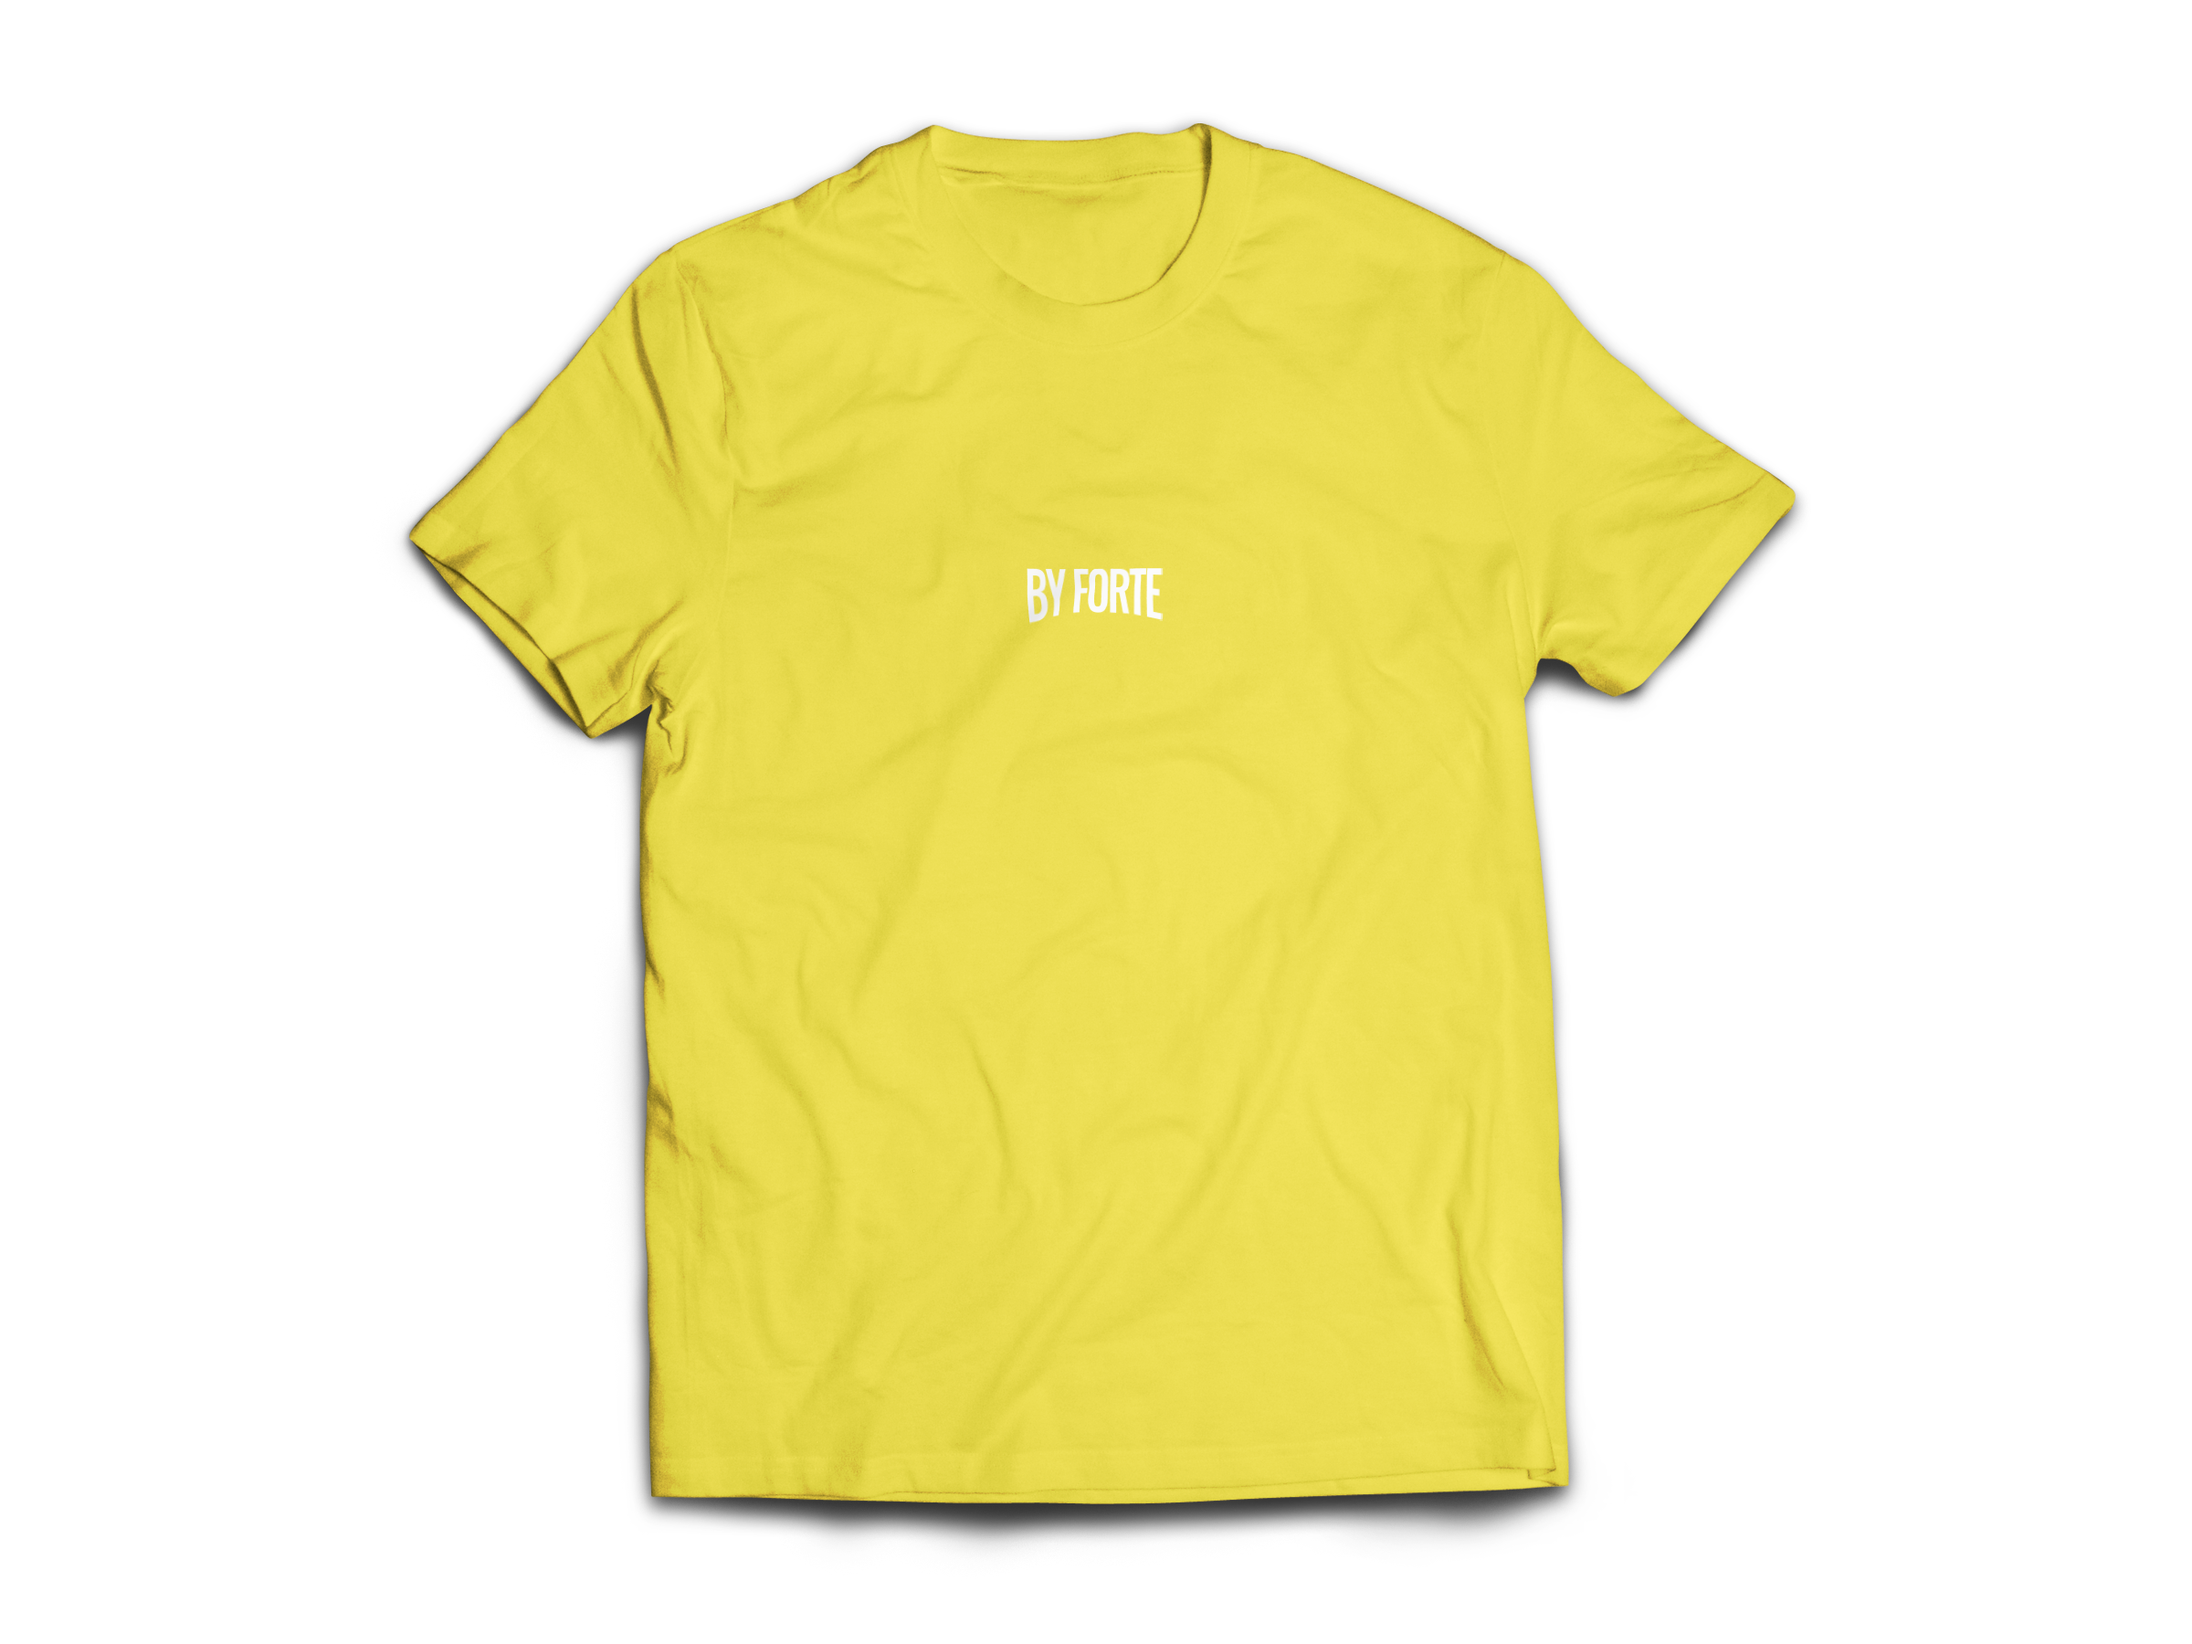
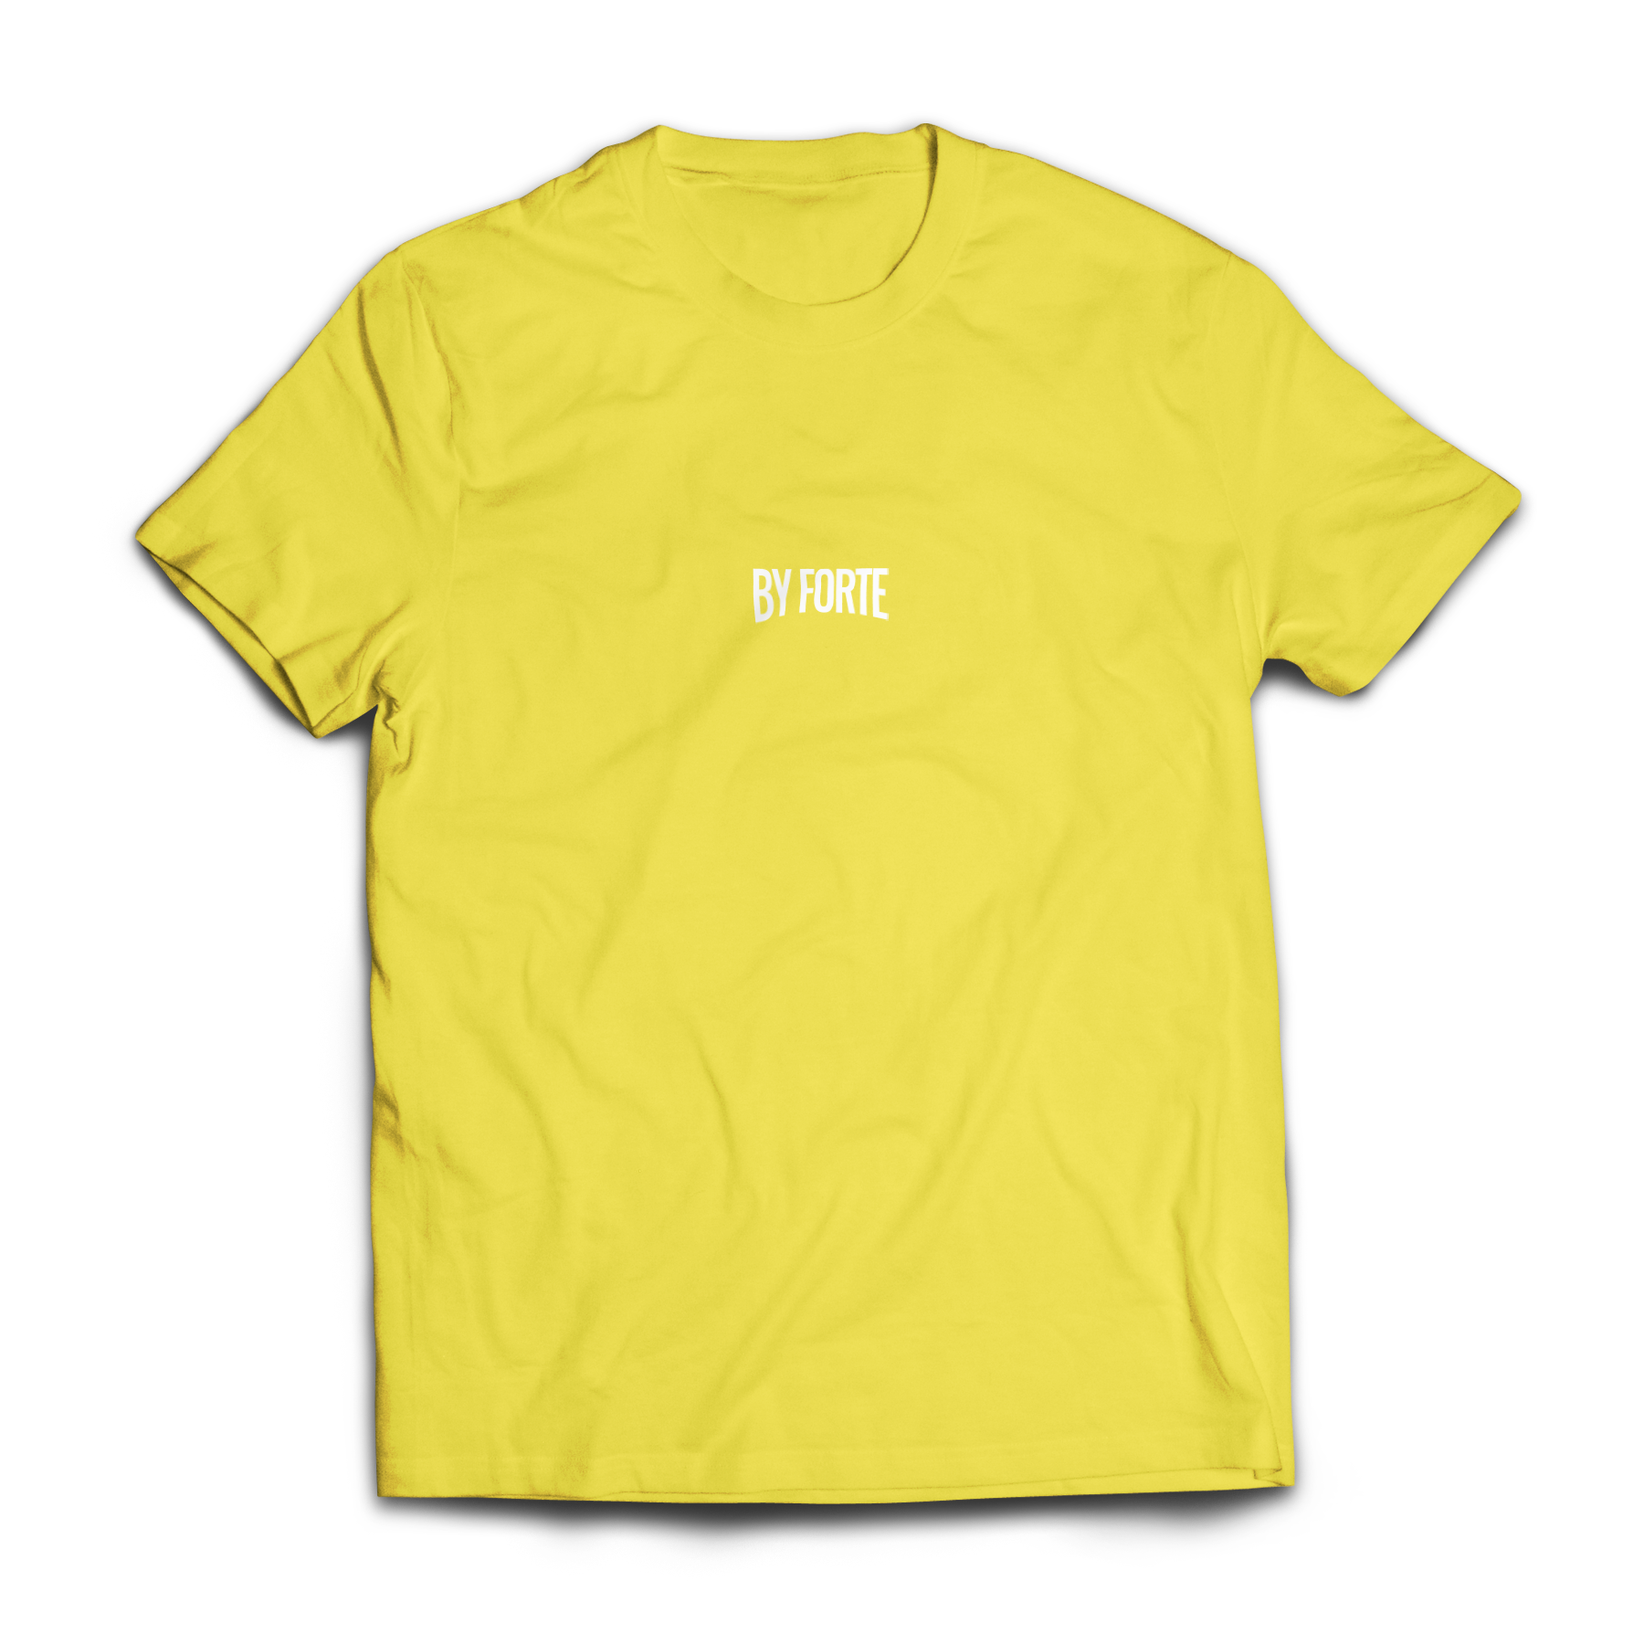
Added product item template

diff --git a/src/scenes/Home/components/PictureRow/index.js b/src/scenes/Home/components/PictureRow/index.js
@@ -1,30 +1,30 @@
-import React, { Component } from "react";
-import placeholderOne from "images/PlaceholderOne.png";
-import placeholderTwo from "images/PlaceholderTwo.png";
-import placeholderThree from "images/PlaceholderThree.jpg";
-import "./styles.css";
+import React, { Component } from 'react';
+import placeholderOne from 'images/PlaceholderOne.png';
+import placeholderTwo from 'images/PlaceholderTwo.png';
+import placeholderThree from 'images/PlaceholderThree.jpg';
+import './styles.css';
 
 export class PictureRow extends Component {
   render() {
     return (
-      <div className="mx-auto">
-        <div className="d-flex flex-column flex-lg-row">
+      <div className='mx-auto'>
+        <div className='d-flex flex-column flex-lg-row'>
           <div
-            className="picture"
+            className='picture'
             style={{
-              backgroundImage: "url(" + placeholderOne + ")"
+              backgroundImage: 'url(' + placeholderOne + ')'
             }}
           />
           <div
-            className="picture"
+            className='picture'
             style={{
-              backgroundImage: "url(" + placeholderTwo + ")"
+              backgroundImage: 'url(' + placeholderTwo + ')'
             }}
           />
           <div
-            className="picture"
+            className='picture'
             style={{
-              backgroundImage: "url(" + placeholderThree + ")"
+              backgroundImage: 'url(' + placeholderThree + ')'
             }}
           />
         </div>

diff --git a/src/registerServiceWorker.js b/src/registerServiceWorker.js
@@ -2,7 +2,7 @@
 
 // This lets the app load faster on subsequent visits in production, and gives
 // it offline capabilities. However, it also means that developers (and users)
-// will only see deployed updates on the "N+1" visit to a page, since previously
+// will only see deployed updates on the 'N+1' visit to a page, since previously
 // cached resources are updated in the background.
 
 // To learn more about the benefits of this model, read https://goo.gl/KwvDNy.
@@ -63,13 +63,13 @@ function registerValidSW(swUrl) {
             if (navigator.serviceWorker.controller) {
               // At this point, the old content will have been purged and
               // the fresh content will have been added to the cache.
-              // It's the perfect time to display a "New content is
-              // available; please refresh." message in your web app.
+              // It's the perfect time to display a 'New content is
+              // available; please refresh.' message in your web app.
               console.log('New content is available; please refresh.');
             } else {
               // At this point, everything has been precached.
               // It's the perfect time to display a
-              // "Content is cached for offline use." message.
+              // 'Content is cached for offline use.' message.
               console.log('Content is cached for offline use.');
             }
           }

diff --git a/src/scenes/Shop/components/Product Shop/index.js b/src/scenes/Shop/components/Product Shop/index.js
@@ -1,0 +1,33 @@
+import React, { Component } from "react";
+import { ProductItem } from "./../Product Item";
+
+import whiteForte from "./../../images/Mock Ups/By Forte - Mock Up (White).png";
+import yellowForte from "./../../images/Mock Ups/By Forte - Mock Up (Yellow).png";
+// import ashMantraFront from './../../images/Mock Ups/Mantra Forte (Front) - Mock Up (Ash).png';
+import ashMantraBack from "./../../images/Mock Ups/Mantra Forte (Back) - Mock Up (Ash).png";
+// import ncBlueMantraFront from './../../images/Mock Ups/Mantra Forte (Front) - Mock Up (NC Blue).png';
+import ncBlueMantraBack from "./../../images/Mock Ups/Mantra Forte (Back) - Mock Up (NC Blue).png";
+import "./styles.css";
+
+export class ProductShop extends Component {
+  render() {
+    return (
+      <div className="w-100">
+        <div className="row justify-content-between text-center">
+          <ProductItem name="BY FORTE TEE" colour="WHITE" image={whiteForte} />
+          <ProductItem name="BY FORTE TEE" colour="YELLOW" image={yellowForte} />
+          <ProductItem
+            name="MANTRA FORTE TEE"
+            colour="NORTH CAROLINA BLUE"
+            image={ncBlueMantraBack}
+          />
+          <ProductItem
+            name="MANTRA FORTE TEE"
+            colour="GREY"
+            image={ashMantraBack}
+          />
+        </div>
+      </div>
+    );
+  }
+}

diff --git a/src/components/Navbar/index.js b/src/components/Navbar/index.js
@@ -42,20 +42,20 @@ export class NavBar extends React.Component {
     const navLinks = pages.map(page => {
       return (
         <NavItem key={page}>
-          <NavLink onClick={this.handleClick} to={'/' + page} activeClassName="text-dark" className="NavLink text-uppercase text-muted mx-auto" tag={RRNavLink}>{page}</NavLink>
+          <NavLink onClick={this.handleClick} to={'/' + page} activeClassName='text-dark' className='NavLink text-uppercase text-muted mx-auto' tag={RRNavLink}>{page}</NavLink>
         </NavItem>
     )
     });
 
     return (
-      <div className="container">
-        <Navbar className="navbar" light={true} expand="md">
-          <NavbarBrand to="/" className="navbar-brand mr-auto" tag={RRNavLink}>
-            <img id="logo" src={logo} alt="By Forte"/>
+      <div className='container'>
+        <Navbar className='navbar' light={true} expand='md'>
+          <NavbarBrand to='/' className='navbar-brand mr-auto' tag={RRNavLink}>
+            <img id='logo' src={logo} alt='By Forte'/>
           </NavbarBrand>
           <NavbarToggler onClick={this.handleClick}/>
           <Collapse isOpen={this.state.isOpen} navbar={true}>
-            <Nav className="ml-auto" navbar={true}>
+            <Nav className='ml-auto' navbar={true}>
               {navLinks}
             </Nav>
           </Collapse>

diff --git a/src/scenes/Shop/components/Product Item/index.js b/src/scenes/Shop/components/Product Item/index.js
@@ -1,0 +1,54 @@
+import React, { Component } from "react";
+import { Link } from "react-router-dom";
+import PropTypes from "prop-types";
+
+export class ProductItem extends Component {
+  constructor(props) {
+    super(props);
+
+    this.url = `${this.props.name}-${this.props.colour}`
+      .split(" ")
+      .join("-")
+      .toLowerCase();
+
+    this.state = {
+      name: this.props.name,
+      colour: this.props.colour,
+      image: this.props.image,
+      url: this.url
+    };
+  }
+
+  render() {
+    return (
+      <div className="col-6 col-lg-3">
+        <Link
+          to={{
+            pathname: `/shop/collections/tops/products/${this.url}`,
+            state: {
+              name: this.state.name,
+              colour: this.state.colour,
+              image: this.state.image
+            }
+          }}
+        >
+          <img
+            className="display-image mx-auto d-block"
+            src={this.state.image}
+            alt={`${this.state.name} - ${this.state.colour}`}
+          />
+        </Link>
+        <p>
+          {this.state.name} <br />
+          <span className="text-muted">{this.state.colour}</span>
+        </p>
+      </div>
+    );
+  }
+}
+
+ProductItem.propTypes = {
+  name: PropTypes.string.isRequired,
+  image: PropTypes.string,
+  colour: PropTypes.string
+};

diff --git a/src/scenes/Shop/index.js b/src/scenes/Shop/index.js
@@ -1,13 +1,14 @@
-import React, { Component } from "react";
-import { ShirtShop } from "./components/Shirt Shop/shirtShop";
-import { PasswordInput } from "./components/passwordInput";
-import "./styles.css";
+import React, { Component } from 'react';
+import { ProductShop } from './components/Product Shop';
+import { PasswordInput } from './components/passwordInput';
+
+import './styles.css';
 
 export class Shop extends Component {
   constructor(props) {
     super(props);
     this.state = {
-      validPassword: false
+      validPassword: true
     };
 
     this.validatePassword = this.validatePassword.bind(this);
@@ -18,17 +19,17 @@ export class Shop extends Component {
     // Validate password
 
     // Assign new password
-    if (value === "a") {
-      console.log("logged in!");
+    if (value === 'a') {
+      // console.log('logged in!');
       this.setState({ validPassword: true });
     }
   }
 
   render() {
     return (
-      <div className="middle-align fill-height-or-more container">
+      <div className='middle-align fill-height-or-more container'>
         {this.state.validPassword ? (
-          <ShirtShop />
+          <ProductShop />
         ) : (
           <PasswordInput validatePassword={this.validatePassword} />
         )}

diff --git a/src/scenes/About/index.js b/src/scenes/About/index.js
@@ -3,8 +3,8 @@ import './styles.scss';
 
 export class About extends Component {
 	render() {
-		return (<div className="container">
-			<div className="mx-auto content text-md-center">
+		return (<div className='container'>
+			<div className='mx-auto content text-md-center'>
 				<h1>ABOUT</h1>
 				<p>Lorem ipsum dolor sit amet, consectetur adipiscing elit. Curabitur vel magna nec turpis tempor vehicula eu et leo. Nulla porta, quam in mollis aliquet, urna sapien pharetra tellus, ut scelerisque metus erat congue metus. Curabitur nec lacus accumsan, lobortis sapien et, elementum nunc. Curabitur vel purus sed nisi malesuada egestas.</p>
 				<p>Lorem ipsum dolor sit amet, consectetur adipiscing elit. Curabitur vel magna nec turpis tempor vehicula eu et leo. Nulla porta, quam in mollis aliquet, urna sapien pharetra tellus, ut scelerisque metus erat congue metus. Curabitur nec lacus accumsan, lobortis sapien et, elementum nunc. Curabitur vel purus sed nisi malesuada egestas.</p>

diff --git a/src/index.js b/src/index.js
@@ -1,6 +1,6 @@
 import React from 'react';
 import ReactDOM from 'react-dom';
-import {BrowserRouter as Router} from "react-router-dom";
+import {BrowserRouter as Router} from 'react-router-dom';
 
 import registerServiceWorker from './registerServiceWorker';
 import * as firebase from 'firebase';
@@ -12,12 +12,12 @@ import 'scss/main.css';
 
 // Initialize Firebase
 var config = {
-  apiKey: "AIzaSyDQC55nWiuHoR2uChUafiFWaYGVH2ecPvI",
-  authDomain: "by-forte.firebaseapp.com",
-  databaseURL: "https://by-forte.firebaseio.com",
-  projectId: "by-forte",
-  storageBucket: "by-forte.appspot.com",
-  messagingSenderId: "622359278063"
+  apiKey: 'AIzaSyDQC55nWiuHoR2uChUafiFWaYGVH2ecPvI',
+  authDomain: 'by-forte.firebaseapp.com',
+  databaseURL: 'https://by-forte.firebaseio.com',
+  projectId: 'by-forte',
+  storageBucket: 'by-forte.appspot.com',
+  messagingSenderId: '622359278063'
 };
 firebase.initializeApp(config);
 

diff --git a/src/components/Footer/index.js b/src/components/Footer/index.js
@@ -5,14 +5,14 @@ import './styles.css'
 export class Footer extends React.Component {
   render() {
     return (
-      <div className="footer container">
+      <div className='footer container'>
           <hr/>
-          <div className="row">
-            <div className="col-sm">
+          <div className='row'>
+            <div className='col-sm'>
               <br/>
               <p>Lorem ipsum dolor sit amet, consectetur adipiscing elit. Curabitur eget diam finibus, consectetur est vitae, porttitor sapien</p>
             </div>
-            <div className="col-sm">
+            <div className='col-sm'>
               <h2>LINKS</h2>
               <li>Test</li>
               <li>Test</li>

diff --git a/src/scenes/Shop/components/passwordInput.js b/src/scenes/Shop/components/passwordInput.js
@@ -1,4 +1,4 @@
-import React, { Component } from "react";
+import React, { Component } from 'react';
 
 export class PasswordInput extends Component {
 
@@ -25,7 +25,7 @@ export class PasswordInput extends Component {
   render() {
     return (<React.Fragment>
       <form onSubmit={this.handleSubmit}>
-        <input className="form-control" type="password" name="password" value={this.state.passwordValue} onChange={this.handleChange}/>
+        <input className='form-control' type='password' name='password' value={this.state.passwordValue} onChange={this.handleChange}/>
       </form>
     </React.Fragment>);
   }

diff --git a/src/scenes/App/index.js b/src/scenes/App/index.js
@@ -1,19 +1,19 @@
 import React, {Component} from 'react';
 import {NavBar} from 'components/Navbar'
 import {Footer} from 'components/Footer'
-import Routes from "routes";
+import Routes from 'routes';
 import './styles.css';
 
 class App extends Component {
   render() {
-    return (<div id="app">
-      <div id="NavBar">
+    return (<div id='app'>
+      <div id='NavBar'>
         <NavBar/>
       </div>
-      <div id="body">
+      <div id='body'>
         <Routes/>
       </div>
-      <div id="Footer">
+      <div id='Footer'>
         <Footer/>
       </div>
     </div>);

diff --git a/src/components/ComingSoon/index.js b/src/components/ComingSoon/index.js
@@ -1,9 +1,9 @@
-import React, { Component } from "react";
+import React, { Component } from 'react';
 
 export class ComingSoon extends Component {
   render() {
     return (
-      <div className="middle-align container">
+      <div className='middle-align container'>
         <h3>COMING SOON</h3>
       </div>
     );
